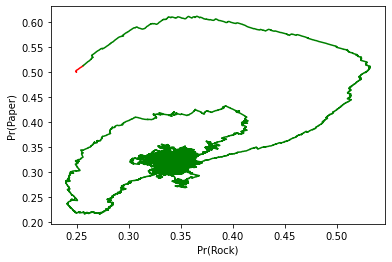
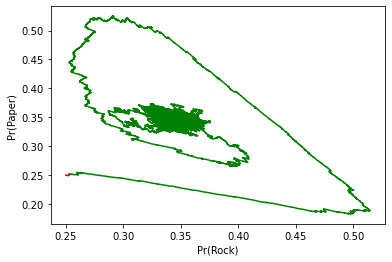
Correct plot

diff --git a/Kevin/PHC-WOLF.py b/Kevin/PHC-WOLF.py
@@ -13,11 +13,11 @@ delta_w = 0.0001
 delta_l = 0.0002
 NumberOfStates = 3
 NumberOfActions = 3
-Iterations = 1000000
+Iterations = 300000
 gamma = 0.99
 RUN = 1
 
-AVERAGEEVERY = 100
+AVERAGEEVERY = 1
 ############################################################################
 
 
@@ -140,7 +140,7 @@ for run in range(0, RUN):
         if i % 1000 == 0:
             print(i)
         p.append(Policy1[0][1])
-        p2.append(Policy2[0][0])
+        p2.append(Policy1[0][0])
         for j in range(0, NumberOfStates):
             # Choose Action
             action1 = np.random.choice(range(0, NumberOfActions), p=Policy1[j])
